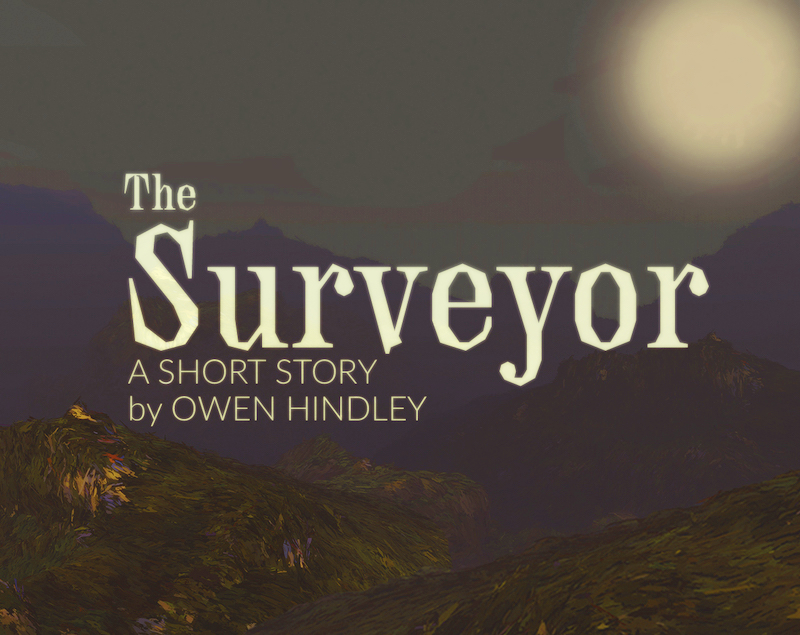
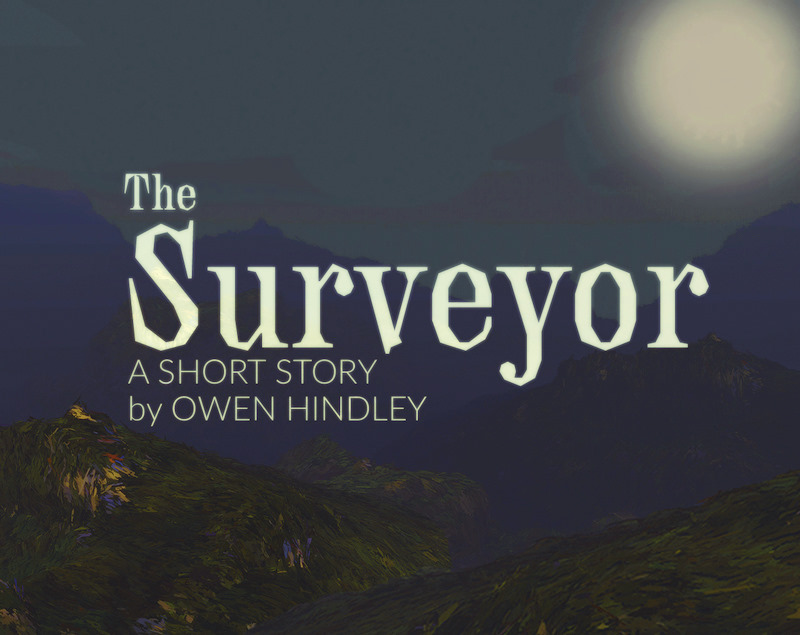
update grex lucis page with video; add surveyor to featured list

diff --git a/docs/index.html b/docs/index.html
@@ -369,6 +369,24 @@
 
 						</article>
 					
+						<article id="surveyor" class="all  screens">
+							<a href="/surveyor">
+								<div class="thumbImg"
+                                style="background-image:url(images/projects/thumbs/surveyor-thumb.jpg);"></div>
+
+								<header>
+
+									<h3>The Surveyor</h3>
+									<summary>Semi-interactive short fiction</summary>
+									<summary></summary>
+									<summary>August 2024</summary>
+
+								</header>
+
+							</a>
+
+						</article>
+					
 						<article id="horizons-vr" class="all large xr">
 							<a href="/horizons-vr">
 								<div class="thumbImg"
@@ -1307,7 +1325,7 @@
 						</article>
 					
 						<article id="surveyor"
-                        class="works  screens">
+                        class="works featured screens">
 							<a href="/surveyor">
 								<div class="thumbImg"
                                 style="background-image:url(images/projects/thumbs/surveyor-thumb.jpg);"></div>

diff --git a/site-source/articles/grex-lucis.html b/site-source/articles/grex-lucis.html
@@ -43,7 +43,7 @@ filter: spaces
 <section>
 	<div class="video-wrapper">
 		<iframe width="100%" height="610"
-			src="https://www.youtube.com/embed/AZweio_ide4?modestbranding=1&#038;showinfo=0&#038;rel=0" frameborder="0"
+			src="https://www.youtube.com/embed/qtwbbrmA5xQ?modestbranding=1&#038;showinfo=0&#038;rel=0" frameborder="0"
 			allowfullscreen></iframe>
 	</div>
 
@@ -121,6 +121,15 @@ filter: spaces
 <section class="small">
 	<p>First Exhibited at TONIK Festival 2025, Torshavn, Faroe Islands</p>
 	<p>Additional shows scheduled for 2026.</p>
+</section>
+
+<section>
+	<div class="video-wrapper">
+		<iframe width="100%" height="610"
+			src="https://www.youtube.com/embed/AZweio_ide4?modestbranding=1&#038;showinfo=0&#038;rel=0" frameborder="0"
+			allowfullscreen></iframe>
+	</div>
+
 </section>
 
 <section>

diff --git a/docs/grex-lucis/index.html b/docs/grex-lucis/index.html
@@ -86,7 +86,7 @@
 <section>
 	<div class="video-wrapper">
 		<iframe width="100%" height="610"
-			src="https://www.youtube.com/embed/AZweio_ide4?modestbranding=1&#038;showinfo=0&#038;rel=0" frameborder="0"
+			src="https://www.youtube.com/embed/qtwbbrmA5xQ?modestbranding=1&#038;showinfo=0&#038;rel=0" frameborder="0"
 			allowfullscreen></iframe>
 	</div>
 
@@ -164,6 +164,15 @@
 <section class="small">
 	<p>First Exhibited at TONIK Festival 2025, Torshavn, Faroe Islands</p>
 	<p>Additional shows scheduled for 2026.</p>
+</section>
+
+<section>
+	<div class="video-wrapper">
+		<iframe width="100%" height="610"
+			src="https://www.youtube.com/embed/AZweio_ide4?modestbranding=1&#038;showinfo=0&#038;rel=0" frameborder="0"
+			allowfullscreen></iframe>
+	</div>
+
 </section>
 
 <section>

diff --git a/site-source/articles/surveyor.html b/site-source/articles/surveyor.html
@@ -9,6 +9,7 @@ role: Writer, Developer, Sound Designer
 skills:
 class: works
 filter: screens
+featured: true
 ---
 
 <section>
